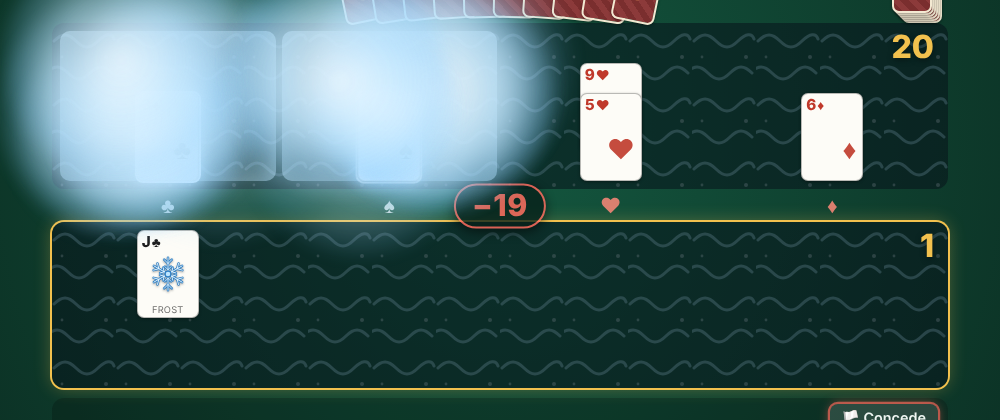
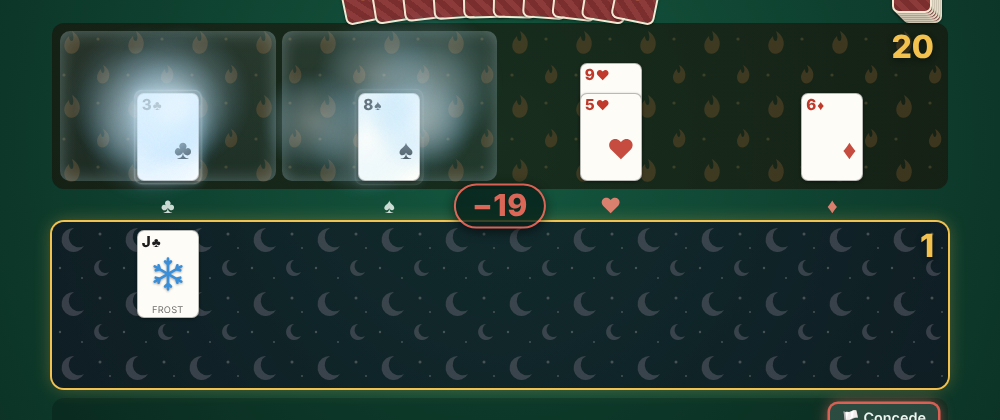
Value-pitched card drops, lighter Frost mist, Steal black hole with warp sound
- A landing card's thud and a soft note are pitched by its value: low cards
  land light and high, big ones deep.
- Frost's mist is lighter and smaller, and the freeze tint is softer.
- While a Steal waits for a card, a swirling black hole rings the hand that
  has to give one, its cards shimmer, and a warping sound loops until it's taken.

Claude-Session: https://claude.ai/code/session_01RZQVcp2qjBMmu2NDpK7G8g

diff --git a/eggbog.html b/eggbog.html
@@ -555,6 +555,18 @@ button,summary,.clk{touch-action:manipulation}
   #oppRow #deckBox{transform:scale(.78);transform-origin:top right}
   .field,.col{min-height:84px}
 }
+
+/* Steal's black hole: a dark swirling ring around the hand that has to give a card (the cards stay visible in its eye) */
+#bhole{position:fixed;z-index:4;pointer-events:none;border-radius:50%}
+#bhole>i,#bhole b i{position:absolute;inset:0;border-radius:50%}
+#bhole b{position:absolute;left:0;top:50%;width:100%;aspect-ratio:1;translate:0 -50%;transform:scaleY(var(--sy,1))}   /* a circle squashed into the oval, so the swirl can spin inside it */
+#bhole>i{background:radial-gradient(closest-side,#0000 60%,#1a083099 69%,#000000d9 79%,#2a0d4a77 89%,#0000 100%)}
+#bhole b i{background:conic-gradient(from 0deg,#0000,#9b5cff66,#0000 18%,#ff7ad955 30%,#0000 42%,#7ac8ff55 58%,#0000 70%,#9b5cff66 84%,#0000);
+  -webkit-mask:radial-gradient(closest-side,#0000 62%,#000 72%,#000 84%,#0000 98%);mask:radial-gradient(closest-side,#0000 62%,#000 72%,#000 84%,#0000 98%);animation:bhspin 2.2s linear infinite;filter:blur(1.5px)}
+@keyframes bhspin{to{transform:rotate(360deg)}}
+@keyframes warpwob{0%,100%{filter:none}50%{filter:drop-shadow(0 0 6px #9b5cffaa) hue-rotate(-12deg)}}
+.card.warping,.oc.warping{animation:warpwob 1.4s ease-in-out infinite}
+@media (prefers-reduced-motion:reduce){#bhole b i,.card.warping,.oc.warping{animation:none}}
 </style>
 </head>
 <body>
@@ -2268,7 +2280,46 @@ function jkThinkFor(pend,get){   // pend: the pending choice; get: the cards it 
   jkThink(get,els=>pend.jkId?els.find(e=>e.dataset.id===pend.jkId):els[Math.min(pend.jkAt||0,els.length-1)]);
 }
 // Steal: the cards of your own hand are the choice, with a label floating above them
+// Steal: a swirling black hole opens around the hand that has to give a card, with a looping warp sound, until the card is taken
+let warpSnd=null;
+function warpLoop(on){
+  if(!on||!soundOn){if(warpSnd){const w=warpSnd;warpSnd=null;try{const t=audioCtx.currentTime;w.g.gain.cancelScheduledValues(t);w.g.gain.setValueAtTime(w.g.gain.value,t);w.g.gain.exponentialRampToValueAtTime(.0001,t+.35);w.nodes.forEach(n=>n.stop(t+.4));}catch(e){}}return;}
+  if(warpSnd)return;
+  try{audioCtx=audioCtx||new (window.AudioContext||window.webkitAudioContext)();if(audioCtx.state==='suspended')audioCtx.resume();
+    const t=audioCtx.currentTime,g=audioCtx.createGain();g.gain.setValueAtTime(.0001,t);g.gain.exponentialRampToValueAtTime(.09,t+.5);g.connect(audioCtx.destination);
+    // a low hum that bends up and down, plus a breathy whoosh that sweeps, both wobbling on slow LFOs
+    const o=audioCtx.createOscillator(),o2=audioCtx.createOscillator(),lfo=audioCtx.createOscillator(),lg=audioCtx.createGain();
+    o.type='sawtooth';o.frequency.value=70;o2.type='sine';o2.frequency.value=141;lfo.frequency.value=.9;lg.gain.value=22;
+    lfo.connect(lg);lg.connect(o.frequency);lg.connect(o2.frequency);
+    const lp=audioCtx.createBiquadFilter();lp.type='lowpass';lp.frequency.value=420;lp.Q.value=6;
+    const lfo2=audioCtx.createOscillator(),lg2=audioCtx.createGain();lfo2.frequency.value=.45;lg2.gain.value=260;lfo2.connect(lg2);lg2.connect(lp.frequency);
+    o.connect(lp);o2.connect(lp);lp.connect(g);
+    const n=audioCtx.sampleRate*2,buf=audioCtx.createBuffer(1,n,audioCtx.sampleRate),d=buf.getChannelData(0);for(let i=0;i<n;i++)d[i]=Math.random()*2-1;
+    const ns=audioCtx.createBufferSource();ns.buffer=buf;ns.loop=true;const bp=audioCtx.createBiquadFilter();bp.type='bandpass';bp.frequency.value=700;bp.Q.value=3;
+    const ng=audioCtx.createGain();ng.gain.value=.35;lg2.connect(bp.frequency);ns.connect(bp);bp.connect(ng);ng.connect(g);
+    const nodes=[o,o2,lfo,lfo2,ns];nodes.forEach(x=>x.start(t));warpSnd={g,nodes};
+  }catch(e){}
+}
+function blackHole(sel){
+  let b=$('bhole');
+  if(!sel){if(b&&!b.dataset.out){b.dataset.out='1';b.animate([{opacity:1,transform:'scale(1)'},{opacity:0,transform:'scale(.4) rotate(120deg)'}],{duration:450,easing:'ease-in',fill:'forwards'}).onfinish=()=>b.remove();}
+    document.querySelectorAll('.warping').forEach(e=>e.classList.remove('warping'));warpLoop(false);return;}
+  const h=document.querySelector(sel);if(!h)return;
+  // size it to the cards themselves (the hand row can be much wider than the cards in it)
+  const cs=[...h.querySelectorAll('.card,.oc')].map(e=>e.getBoundingClientRect()).filter(x=>x.width);
+  const r=cs.length?{left:Math.min(...cs.map(x=>x.left)),top:Math.min(...cs.map(x=>x.top)),right:Math.max(...cs.map(x=>x.right)),bottom:Math.max(...cs.map(x=>x.bottom))}:h.getBoundingClientRect();
+  r.width=r.right-r.left;r.height=r.bottom-r.top;
+  const w=Math.max(r.width,120)*1.45+120,ht=Math.max(r.height,70)*1.5+70;   // the cards sit inside the clear eye
+  if(b&&b.dataset.out){b.remove();b=null;}
+  if(!b){b=document.createElement('div');b.id='bhole';b.innerHTML='<i></i><b><i></i></b>';document.body.appendChild(b);
+    if(b.animate&&!reduced())b.animate([{opacity:0,transform:'scale(.3)'},{opacity:1,transform:'scale(1)'}],{duration:500,easing:'cubic-bezier(.2,.9,.3,1.1)'});}
+  b.style.cssText=`left:${r.left+r.width/2-w/2}px;top:${r.top+r.height/2-ht/2}px;width:${w}px;height:${ht}px`;
+  b.style.setProperty('--sy',ht/w);
+  h.querySelectorAll('.card,.oc').forEach(e=>e.classList.add('warping'));
+  warpLoop(true);
+}
 function stealSync(v,OPP){
+  {const sp=v.pending&&v.pending.t==='steal'?v.pending:null;blackHole(sp?(sp.chooser===v.you?'#hand':'#oppHand'):null);}
   const o=$('stl');if(o)o.remove();
   {const jp=v.pending&&v.pending.t==='steal'&&v.pending.jk?v.pending:null;
    if(jp){   // a Joker card's Steal: the Joker picks the card to give, from whoever has to give it
@@ -2546,14 +2597,23 @@ function flyBackToOpp(delay,fromEl){ // the opponent drew (or was given a card):
 let pendingDrop=null,audioCtx=null,soundOn=true;
 try{soundOn=localStorage.getItem('eggbog-sound')!=='off';}catch(e){}
 function syncSound(){const b=$('btnSound');b.textContent=soundOn?'🔊':'🔇';b.title=soundOn?'Sound on':'Sound off';}
-function thud(){
+// val: the value of the card that landed (optional). Low cards land with a light, high thud, big ones deep and heavy,
+// and a soft note on a falling scale makes each value sound different
+function thud(val){
   if(!soundOn)return;
   try{
     audioCtx=audioCtx||new (window.AudioContext||window.webkitAudioContext)();
     if(audioCtx.state==='suspended')audioCtx.resume();
-    const t=audioCtx.currentTime;
+    const t=audioCtx.currentTime,v=Math.max(1,Math.min(10,val||0));
+    const k=val?1.5-(v-1)/9*.85:1;   // 1.5x the pitch for a 1, down to .65x for a 10
     const o=audioCtx.createOscillator(),g=audioCtx.createGain();
-    o.type='sine';o.frequency.setValueAtTime(150,t);o.frequency.exponentialRampToValueAtTime(45,t+.13);
+    o.type='sine';o.frequency.setValueAtTime(150*k,t);o.frequency.exponentialRampToValueAtTime(45*k,t+.13);
+    if(val){
+      const notes=[784,698.5,659.3,587.3,523.3,440,392,349.2,329.6,293.7],no=audioCtx.createOscillator(),ng2=audioCtx.createGain();
+      no.type='triangle';no.frequency.setValueAtTime(notes[v-1],t);no.frequency.exponentialRampToValueAtTime(notes[v-1]*.94,t+.18);
+      ng2.gain.setValueAtTime(.0001,t);ng2.gain.exponentialRampToValueAtTime(.09,t+.008);ng2.gain.exponentialRampToValueAtTime(.0001,t+.22);
+      no.connect(ng2);ng2.connect(audioCtx.destination);no.start(t);no.stop(t+.24);
+    }
     g.gain.setValueAtTime(.0001,t);g.gain.exponentialRampToValueAtTime(.45,t+.006);g.gain.exponentialRampToValueAtTime(.0001,t+.2);
     o.connect(g);g.connect(audioCtx.destination);o.start(t);o.stop(t+.22);
     // a short muffled slap for the card hitting the cloth
@@ -2588,7 +2648,7 @@ function dropAnim(el,fromX,fromY,delay){
   ],{duration:dur,delay:delay||0,fill:'backwards'});
   anim.onfinish=anim.oncancel=()=>{el.style.zIndex='';};
   setTimeout(()=>{
-    thud();
+    {const c=view&&view.me.field.concat(view.opp.field).find(x=>x.id===el.dataset.id);thud(c?cardVal(c):0);}
     const dent=document.createElement('div');dent.className='thud-dent';
     dent.style.left=(cx-70)+'px';dent.style.top=(cy-70)+'px';document.body.appendChild(dent);
     dent.animate([{opacity:.9,transform:'scale(.6)'},{opacity:0,transform:'scale(1.25)'}],{duration:620,easing:'ease-out'}).onfinish=()=>dent.remove();
@@ -2857,19 +2917,19 @@ function removalAnim(kind,pl,clones,G){
       const src=srcR(),opp=pl.side==='#myField'?'#oppField':'#myField';
       [pl.c.s,SISTER[pl.c.s]].map(s=>document.querySelector(opp+' .col[data-suit="'+s+'"]')).filter(Boolean).forEach((col,ci)=>{
         const r=col.getBoundingClientRect(),to=ctr(r),from=src?ctr(src):to;
-        for(let k=0;k<9;k++){
-          const sz=r.width*(.7+Math.random()*.5),ox=(Math.random()-.5)*r.width*.5,oy=(Math.random()-.5)*r.height*.6;
-          const m=fx(`left:${to.x-sz/2}px;top:${to.y-sz/2}px;width:${sz}px;height:${sz}px;border-radius:50%;background:radial-gradient(circle,#f4fbffd0 0,#c6e9ffaa 35%,#8fd0ff44 60%,#0000 72%);filter:blur(7px)`,56);
-          m.animate([{transform:`translate(${from.x-to.x}px,${from.y-to.y}px) scale(.25)`,opacity:0},{opacity:.85,offset:.12},{transform:`translate(${ox}px,${oy}px) scale(1)`,opacity:.9,offset:.4},{transform:`translate(${ox*1.2}px,${oy*1.2-10}px) scale(1.25)`,opacity:0}],{duration:1250,delay:k*45+ci*60,easing:'ease-out',fill:'both'});die(m,1350+k*45+ci*60);
+        for(let k=0;k<6;k++){
+          const sz=r.width*(.42+Math.random()*.25),ox=(Math.random()-.5)*r.width*.35,oy=(Math.random()-.5)*r.height*.45;
+          const m=fx(`left:${to.x-sz/2}px;top:${to.y-sz/2}px;width:${sz}px;height:${sz}px;border-radius:50%;background:radial-gradient(circle,#f4fbff90 0,#c6e9ff60 35%,#8fd0ff22 60%,#0000 72%);filter:blur(5px)`,56);
+          m.animate([{transform:`translate(${from.x-to.x}px,${from.y-to.y}px) scale(.25)`,opacity:0},{opacity:.6,offset:.12},{transform:`translate(${ox}px,${oy}px) scale(1)`,opacity:.65,offset:.4},{transform:`translate(${ox*1.2}px,${oy*1.2-8}px) scale(1.15)`,opacity:0}],{duration:1250,delay:k*45+ci*60,easing:'ease-out',fill:'both'});die(m,1350+k*45+ci*60);
         }
-        const tint=fx(`left:${r.left}px;top:${r.top}px;width:${r.width}px;height:${r.height}px;border-radius:10px;background:linear-gradient(#dff4ff30,#9fd8ff20);box-shadow:inset 0 0 30px #cfefff90`,13);
+        const tint=fx(`left:${r.left}px;top:${r.top}px;width:${r.width}px;height:${r.height}px;border-radius:10px;background:linear-gradient(#dff4ff18,#9fd8ff10);box-shadow:inset 0 0 18px #cfefff50`,13);
         tint.animate([{opacity:0},{opacity:0,offset:.15},{opacity:1,offset:.35},{opacity:1,offset:.75},{opacity:0}],{duration:1450,fill:'both'});die(tint,1500);
       });
       clones.forEach((k,i)=>{
         const r=k.el.getBoundingClientRect(),fz=380+i*90,br=880+i*110;
         // the card freezes: it pales to blue and a shell of ice with frost at the edges forms over it
-        k.el.animate([{filter:'none'},{filter:'saturate(.3) brightness(1.12)'}],{duration:320,delay:fz,fill:'forwards'});
-        const ice=fx(`left:${r.left-2}px;top:${r.top-2}px;width:${r.width+4}px;height:${r.height+4}px;border-radius:8px;background:linear-gradient(135deg,#ffffffb0 0,#cdeeff60 30%,#9fd6ff50 60%,#e8f8ffb0 100%);border:2px solid #eef9ff;box-shadow:0 0 14px #9fd8ff,inset 0 0 12px #fff`,15);
+        k.el.animate([{filter:'none'},{filter:'saturate(.6) brightness(1.06)'}],{duration:320,delay:fz,fill:'forwards'});
+        const ice=fx(`left:${r.left-2}px;top:${r.top-2}px;width:${r.width+4}px;height:${r.height+4}px;border-radius:8px;background:linear-gradient(135deg,#ffffff70 0,#cdeeff38 30%,#9fd6ff30 60%,#e8f8ff70 100%);border:1.5px solid #eef9ffcc;box-shadow:0 0 8px #9fd8ff99,inset 0 0 8px #fff9`,15);
         ice.innerHTML=`<svg viewBox="0 0 100 100" preserveAspectRatio="none" style="position:absolute;inset:0;width:100%;height:100%;opacity:0"><path d="M48 52L20 8M48 52L88 18M48 52L95 70M48 52L60 98M48 52L5 75M48 52L30 40M48 52L70 45" stroke="#fff" stroke-width="2.2" fill="none" vector-effect="non-scaling-stroke"/></svg>`;
         ice.animate([{opacity:0,transform:'scale(1.06)'},{opacity:1,transform:'none'}],{duration:320,delay:fz,fill:'both'});
         ice.firstChild.animate([{opacity:0},{opacity:1}],{duration:120,delay:br-160,fill:'both'});   // cracks spread just before it breaks
